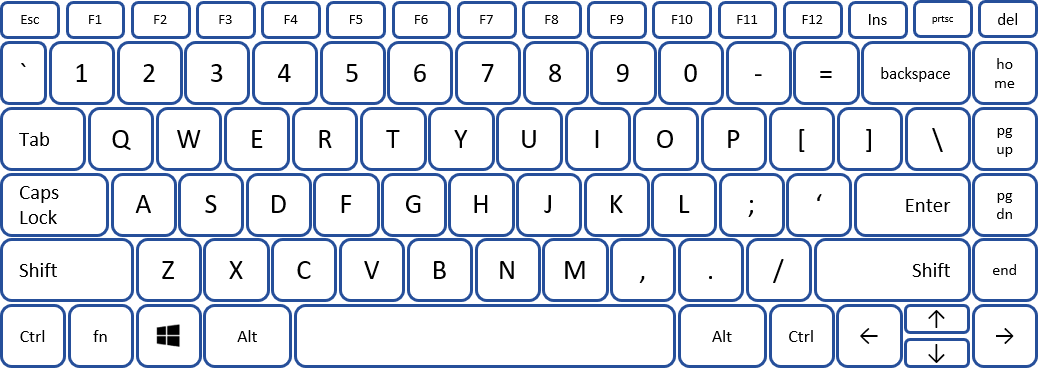
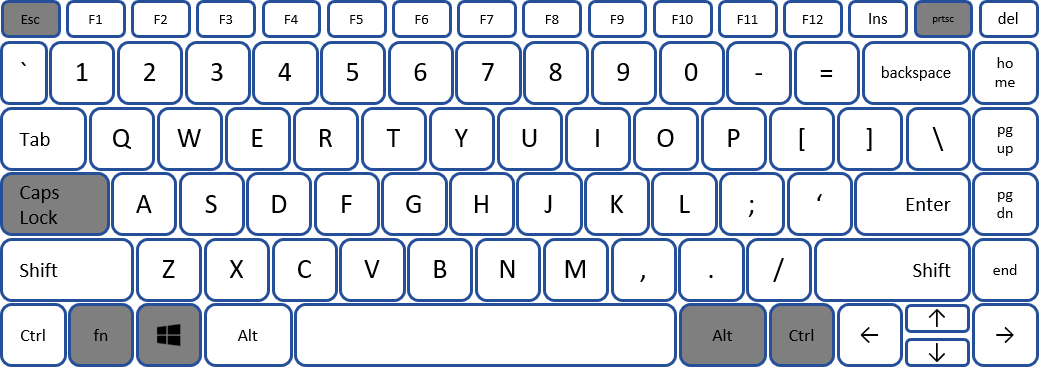
키입력 수정

diff --git a/Shortcut_Guide/src/main_page/Shortcut_Search.java b/Shortcut_Guide/src/main_page/Shortcut_Search.java
@@ -21,8 +21,8 @@ public class Shortcut_Search extends JPanel
 	private String key2[] = {"`", "1", "2", "3", "4", "5", "6", "7", "8", "9", "0", "-", "=", "Bkspce", "Home"};
 	private String key3[] = {"Tab", "Q", "W", "E", "R", "T", "Y", "U", "I", "O", "P", "[", "]", "\\", "PgUp"};
 	private String key4[] = {"Caps Lock", "A", "S", "D", "F", "G", "H", "J", "K", "L", ";", "'", "Enter", "PgDn"};
-	private String key5[] = {"Shift", "Z", "X", "C", "V", "B", "N", "M", ",", ".", "/", "Shift", "End"};
-	private String key6[] = {"Ctrl", "Win", "Alt", "Space", "Alt", "Ctrl", "Left Arrow", "Up Arrow", "Down Arrow", "Right Arrow"};
+	private String key5[] = {"Shift1", "Z", "X", "C", "V", "B", "N", "M", ",", ".", "/", "Shift2", "End"};
+	private String key6[] = {"Ctrl", "Alt", "Space", "Left Arrow", "Up Arrow", "Down Arrow", "Right Arrow"};
 
 	ImageIcon sc_bg, sc_kb, sc_kb_tp; // 배경, 키보드, 키입력 위치 표시
 	ImageIcon sc_sh, sc_shroll; // 검색 아이콘
@@ -211,9 +211,9 @@ public class Shortcut_Search extends JPanel
 				search.setText(search.getText() + "Space");
 				s = "Space";
 				e.consume();
-			}
-			
-			if(s == null)
+			}			
+
+			if(s == null && e.getKeyChar() != '')
 				s = Character.toString(e.getKeyChar());
 			if(s != null)
 				KeyTypedImage(s);
@@ -257,7 +257,10 @@ public class Shortcut_Search extends JPanel
 				break;
 			case KeyEvent.VK_SHIFT:
 				search.setText(search.getText() + "Shift");
-				s = "Shift";
+				if(e.getKeyLocation() == KeyEvent.KEY_LOCATION_LEFT) // shift를 누른 위치가 왼쪽일 경우
+					s = "Shift1";
+				else // shift를 누른 위치가 오른쪽일 경우
+					s = "Shift2";
 				break;
 			case KeyEvent.VK_INSERT:
 				search.setText(search.getText() + "Ins");
@@ -298,10 +301,6 @@ public class Shortcut_Search extends JPanel
 			case KeyEvent.VK_RIGHT:
 				search.setText(search.getText() + "Right Arrow");
 				s = "Right Arrow";
-				break;
-			case KeyEvent.VK_ESCAPE:
-				search.setText(search.getText() + "Esc");
-				s = "Esc";
 				break;
 			case KeyEvent.VK_F1:
 				search.setText(search.getText() + "F1");
@@ -351,10 +350,8 @@ public class Shortcut_Search extends JPanel
 				search.setText(search.getText() + "F12");
 				s = "F12";
 				break;
-			case KeyEvent.VK_CAPS_LOCK:
-				search.setText(search.getText() + "Caps Lock");
-				s = "Caps Lock";
-				break;
+			default:
+				s = null;
 			}
 			
 			if(s != null)
@@ -394,7 +391,7 @@ public class Shortcut_Search extends JPanel
 				if (i == 0)
 					kb_type.setLocation(56, 420);
 				else
-					kb_type.setLocation(i * 68 + 68, 420);
+					kb_type.setLocation(i * 68 + 70, 420);
 			}
 		}
 		
@@ -420,7 +417,7 @@ public class Shortcut_Search extends JPanel
 				if (i == 0)
 					kb_type.setLocation(70, 552);
 				else if (i == key5.length - 2)
-					kb_type.setLocation(930, 552);
+					kb_type.setLocation(910, 552);
 				else if (i == key5.length - 1)
 					kb_type.setLocation(1022, 552);
 				else
@@ -432,8 +429,20 @@ public class Shortcut_Search extends JPanel
 		{
 			if(st.equals(key6[i]))
 			{
-				if(i == 3)
+				if (i == 0) // Ctrl
+					kb_type.setLocation(50, 618);
+				if (i == 1) // Alt
+					kb_type.setLocation(265, 618);
+				if (i == 2) // Space
 					kb_type.setLocation(500, 618);
+				if (i == 3) // Left Arrow
+					kb_type.setLocation(886, 618);
+				if (i == 4) // Up Arrow
+					kb_type.setLocation(954, 600);
+				if (i == 5) // Down Arrow
+					kb_type.setLocation(954, 634);
+				if (i == 6) // Right Arrow
+					kb_type.setLocation(1022, 618);
 			}
 		}
 	}
